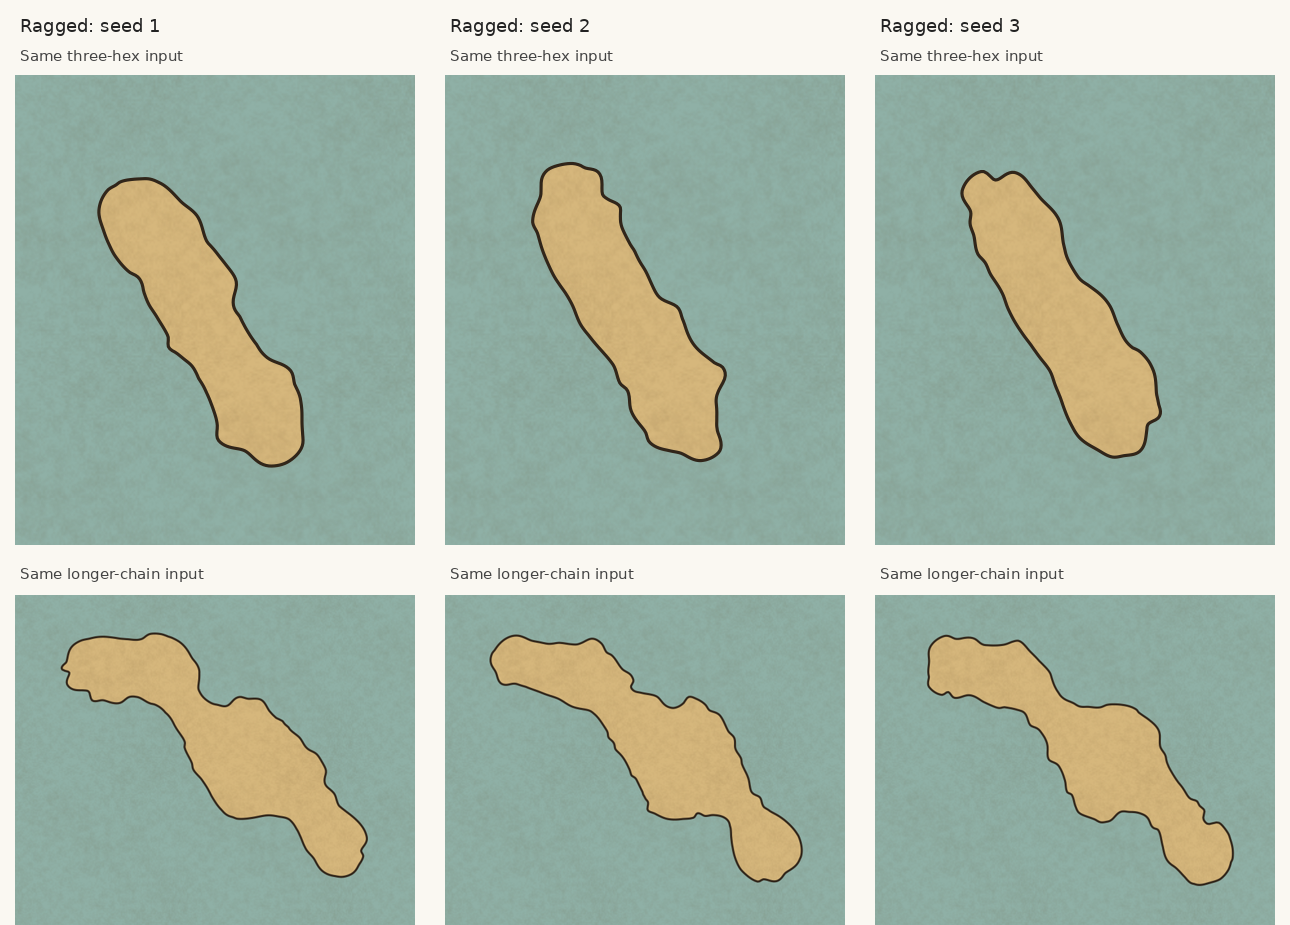
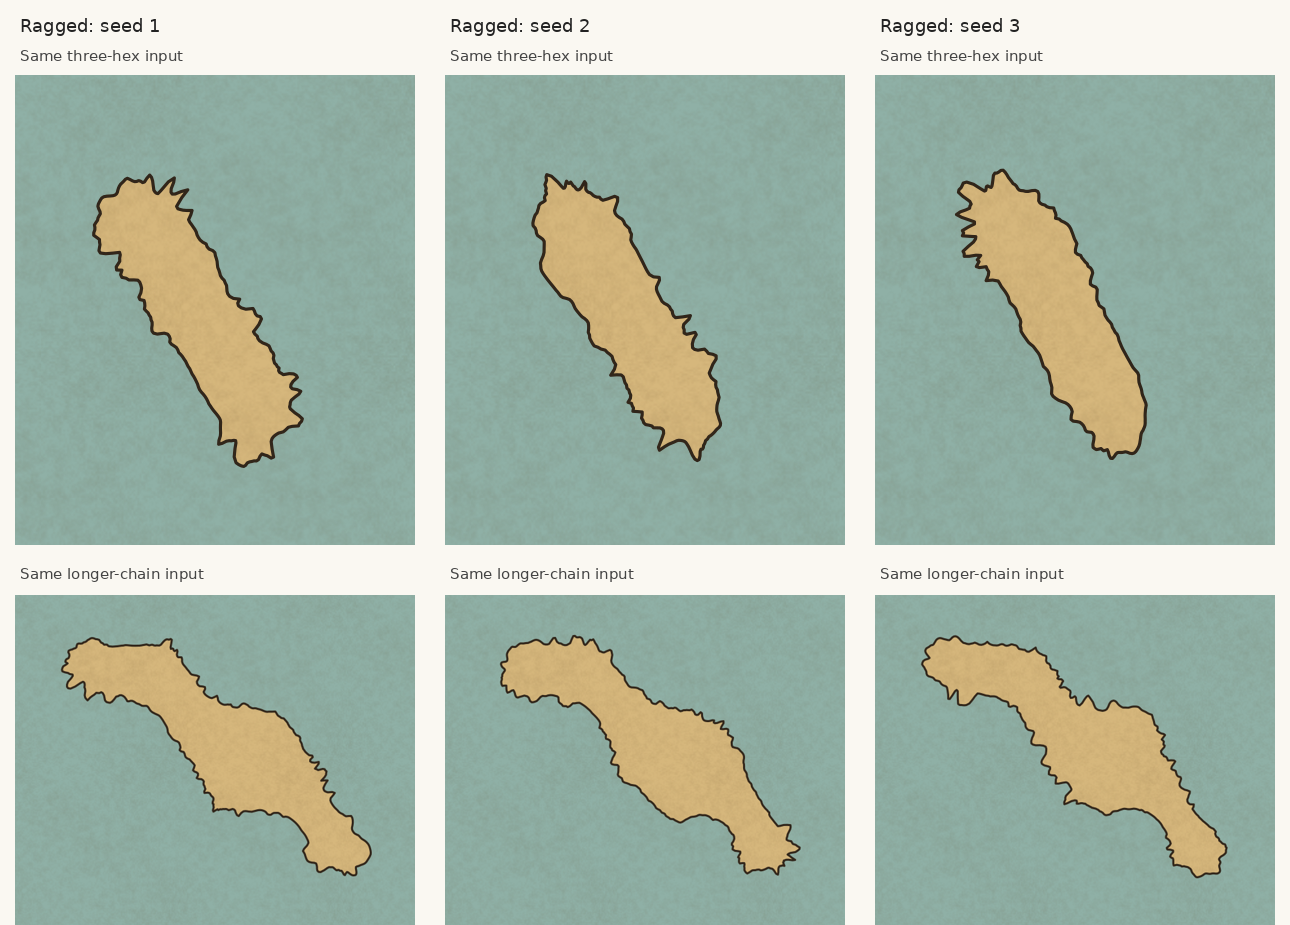
Replace rounded coast-arc detail with warped spatial ridges and erosion

diff --git a/src/render/componentCoast.ts b/src/render/componentCoast.ts
@@ -54,7 +54,7 @@ export function coastClearance(chains: CoastChain[], size: number): (p: Point, c
     return nearest;
   };
 }
-/** Uniform arc-length samples, a multi-hex low-pass silhouette, then irregularly spaced coast-wide detail.
+/** Uniform arc-length samples, a multi-hex low-pass silhouette, then warped spatial ridge/erosion detail.
 * No source corner or edge midpoint is a mandatory waypoint. Source correspondence is kept
 * solely for donor colours, fill correction, border ends and explicit geographic constraints.
 */
@@ -134,38 +134,50 @@ export function componentCoast(chain: CoastChain, rough: Roughness, clearance: R
     return { x: x / sum, y: y / sum };
   });
   result.splice(0, result.length, ...eased);
-  // Detail is added AFTER the last silhouette filter. Its control positions span the whole
-  // ring, with seeded unequal spacing and independent bands, and never reset at a hex edge.
-  // Arc-length noise also avoids matching the shapes on two nearby opposing shores.
+  // Shape variation lives in a planar field, rather than in a sequence of alternating
+  // positive/negative knots around the shore. Warping the field's coordinates and using
+  // one-sided ridges creates asymmetric features at several scales.
   const centre = { x: source.reduce((sum, p) => sum + p.x, 0) / n, y: source.reduce((sum, p) => sum + p.y, 0) / n };
-  const field = (wavelength: number, purpose: number) => {
-    const knots = Math.max(4, Math.ceil(perimeter / (size * wavelength)));
-    const random = (i: number, role: number) => rough.noise(centre.x / size, centre.y / size, purpose + i * 11 + role);
-    const gaps = Array.from({ length: knots }, (_, i) => 0.45 + random(i, 0) * 1.5);
-    const total = gaps.reduce((sum, gap) => sum + gap, 0);
-    const widths = gaps.map(gap => gap / total * perimeter);
-    const positions = [0];
-    widths.forEach(width => positions.push(positions.at(-1)! + width));
-    const raw = Array.from({ length: chain.closed ? knots : knots + 1 }, (_, i) => random(i, 1) * 2 - 1);
-    const mean = raw.reduce((sum, value) => sum + value, 0) / raw.length;
-    const rms = Math.sqrt(raw.reduce((sum, value) => sum + (value - mean) ** 2, 0) / raw.length) || 1;
-    const values = raw.map(value => Math.max(-1.3, Math.min(1.3, (value - mean) / rms * 0.6)));
-    const value = (i: number) => values[chain.closed ? (i + knots) % knots : Math.max(0, Math.min(knots, i))]!;
-    const slope = (i: number) => {
-      if (!chain.closed && (i === 0 || i === knots)) return 0;
-      return (value(i + 1) - value(i - 1)) / (widths[(i - 1 + knots) % knots]! + widths[i % knots]!);
+  const seedX = centre.x / size, seedY = centre.y / size;
+  const axis = rough.noise(seedX, seedY, 60) * Math.PI * 2;
+  const origin = {
+    x: rough.noise(seedX, seedY, 61) * 100,
+    y: rough.noise(seedX, seedY, 62) * 100,
+  };
+  const field = (p: Point, scale: number, purpose: number) => {
+    const px = (p.x - centre.x) / (size * scale), py = (p.y - centre.y) / (size * scale);
+    const x = px * Math.cos(axis) - py * Math.sin(axis) + origin.x;
+    const y = px * Math.sin(axis) + py * Math.cos(axis) + origin.y;
+    const ix = Math.floor(x), iy = Math.floor(y), fx = x - ix, fy = y - iy;
+    const gradient = (a: number, b: number) => {
+      const gx = rough.noise(seedX + a * 13, seedY + b * 17, purpose) * 2 - 1;
+      const gy = rough.noise(seedX + a * 13, seedY + b * 17, purpose + 100) * 2 - 1;
+      const length = Math.hypot(gx, gy) || 1;
+      return (gx * (x - a) + gy * (y - b)) / length;
     };
-    let knot = 0;
-    return (arc: number) => {
-      while (knot + 1 < knots && arc > positions[knot + 1]!) knot++;
-      const width = widths[knot]!, t = Math.min(1, (arc - positions[knot]!) / width);
-      const a = value(knot), b = value(knot + 1);
-      return (2 * t ** 3 - 3 * t ** 2 + 1) * a + (t ** 3 - 2 * t ** 2 + t) * width * slope(knot)
-        + (-2 * t ** 3 + 3 * t ** 2) * b + (t ** 3 - t ** 2) * width * slope(knot + 1);
+    const fade = (t: number) => t * t * t * (t * (t * 6 - 15) + 10);
+    const u = fade(fx), v = fade(fy);
+    const a = gradient(ix, iy), b = gradient(ix + 1, iy), c = gradient(ix, iy + 1), d = gradient(ix + 1, iy + 1);
+    return ((a + (b - a) * u) * (1 - v) + (c + (d - c) * u) * v) * 1.7;
+  };
+  const terrain = (p: Point) => {
+    const warped = {
+      x: p.x + field(p, 2.7, 70) * size * 0.75,
+      y: p.y + field(p, 2.7, 71) * size * 0.75,
+    };
+    const regional = field(warped, 1.8, 72);
+    // A regional field varies strength without switching detail off. Angular ridges
+    // and erosion remain present around the coast, with no coast-wide RMS normalization.
+    const gate = 0.4 + 0.6 * Math.max(0, Math.min(1, (regional + 0.55) / 1.05)) ** 2;
+    const coarse = field(warped, 2.3, 73);
+    const ridge = Math.abs(field(warped, 0.55, 74));
+    const inlet = Math.max(0, field(warped, 0.85, 75)) ** 2;
+    const fine = field(warped, 0.22, 76) * 0.65 + field(warped, 0.095, 77) * 0.2;
+    return {
+      flow: { x: field(warped, 2.0, 78), y: field(warped, 2.0, 79) },
+      relief: coarse * 0.7 + gate * (ridge * 1.7 - inlet * 2.5 + fine),
     };
   };
-  const bands = [field(2.4, 100), field(0.9, 10000), field(0.38, 20000)];
-  const envelope = field(3.7, 30000);
   const amplitudes = donors.map(edge => rough.amplitude(edge));
   const limits = donors.map((edge, i) => Math.min(size * 0.4, clearance(source[i]!, chain, i * step) * 0.14,
     (rough.displacementLimit?.(edge) ?? Infinity) * 0.4));
@@ -188,13 +200,19 @@ export function componentCoast(chain: CoastChain, rough: Roughness, clearance: R
     const next = eased[chain.closed ? (i + 1) % n : Math.min(n - 1, i + 1)]!;
     const dx = next.x - previous.x, dy = next.y - previous.y, length = Math.hypot(dx, dy) || 1;
     const arc = i * step;
-    const strength = Math.max(0.25, Math.min(1.6, 0.9 + envelope(arc) * 0.75));
-    const offset = settings[i]!.amplitude * size * strength * 1.8
-      * (bands[0]!(arc) * 0.9 + bands[1]!(arc) * 0.9 + bands[2]!(arc) * 0.55);
+    const sample = terrain(p);
+    const amplitude = settings[i]!.amplitude * size;
+    // Large planar flow changes the outline asymmetrically. Smaller ridged/erosive detail
+    // follows its local shore normal, with regionally varying strength.
+    const move = {
+      x: amplitude * (sample.flow.x * 1.5 - dy / length * sample.relief * 3.0),
+      y: amplitude * (sample.flow.y * 1.5 + dx / length * sample.relief * 3.0),
+    };
     const limit = settings[i]!.limit;
+    const distance = Math.hypot(move.x, move.y) || 1;
     const ends = chain.closed ? 1 : Math.min(1, arc / size, (perimeter - arc) / size);
-    const bounded = limit > 0 ? limit * Math.tanh(offset / limit) * ends : 0;
-    return { x: p.x - dy / length * bounded, y: p.y + dx / length * bounded };
+    const gain = limit > 0 ? limit * Math.tanh(distance / limit) / distance * ends : 0;
+    return { x: p.x + move.x * gain, y: p.y + move.y * gain };
   });
   result.splice(0, result.length, ...detail);
   const onResult = (arc: number) => {

diff --git a/docs/coast-component-comparison.md b/docs/coast-component-comparison.md
@@ -2,13 +2,15 @@
 
 The original geometry retained one curve per hex corner. Its repeated rounded
 lobes, inward notches and grid-aligned shoulders made coastlines look regularly
-irregular. The first component-stage version over-smoothed the coast and lost
-much of the detail. The revised stage keeps the component silhouette and adds
-irregular detail after its final filter.
+irregular. Component smoothing alone removed too much detail. Adding coast-arc noise
+restored detail but still produced a repeated rounded bump/dip motif. This
+candidate replaces that detail generator with warped spatial ridges and erosion
+to aim for rugged, angular coastlines. The images are for visual review; passing
+geometric checks does not establish that the appearance is satisfactory.
 
-![Original, first PR version and current revision](coast-component-comparison.png)
+![Original, previous revision and new candidate](coast-component-comparison.png)
 
-Columns: original renderer at `24c5927`, first PR version at `3da23b5`, current
+Columns: original renderer at `24c5927`, previous revision at `44a36bc`, current
 revision. Rows: three-hex chain, longer chain, bay, explicit isthmus and strait.
 Inputs, seed (`coast-evidence`), 30-pixel hex radius, Ragged setting and parchment
 style are the same. These are actual `buildScene` / SVG renders rasterized with
@@ -24,11 +26,12 @@ rendered silhouette and grows with the chosen level.
 
 ![The same inputs and Ragged level with three seeds](coast-component-seeds.png)
 
-Three fixed seeds on the same inputs at Ragged. Bays, points, spacing and calm
-stretches vary along each coast. Noise is defined around the whole boundary,
-with independently seeded unequal knot intervals, several scales and a slowly
-varying strength. It does not restart at a hex corner or midpoint. Hermite
-interpolation joins its knots continuously, including the seam of a closed ring.
+Three fixed seeds on the same inputs at Ragged. Detail is sampled from a seeded
+two-dimensional gradient field with a random orientation. A broad spatial field warps its coordinates; absolute-value ridges,
+one-sided erosion and smaller signed fields add angular points and cuts at
+several scales. Regional variation changes strength while retaining fine detail
+around the coast. Neither knots along the coastline nor its original hex corners
+control feature placement. The field is continuous across closed-ring seams.
 
 ## Geometry and fills
 
@@ -57,7 +60,7 @@ node --import tsx scripts/coast-evidence.ts ragged-third coast-reefs Ragged
 ```
 
 It writes the current SVG renders into `work/evidence/`. The first two comparison
-columns were captured from their respective source versions before the revision.
+columns were captured from their respective source versions before this candidate.
 Gallery crops are enlarged rasterizations of those SVGs.
 
 Regression coverage includes preserved coarse and fine detail, increasing
